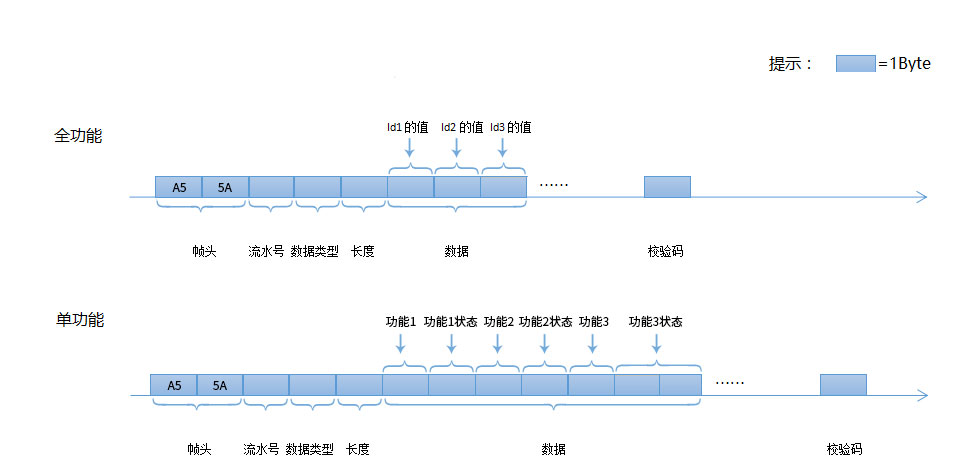
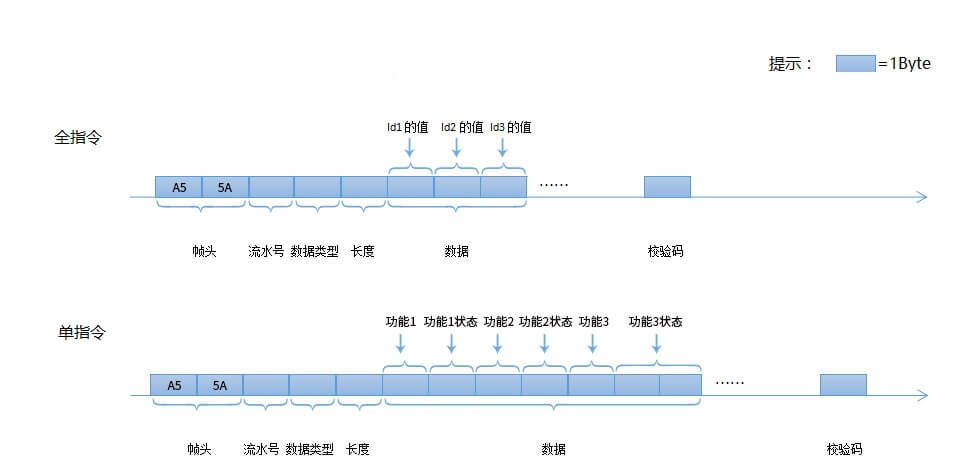
1、Stream_ID  统一改为功能标识符，参数该为功能 2、显示编辑信息的一些提示信息 3、全功能和全指令统一成全指令图片修改 4、添加产品设置一些必填的参数值

diff --git a/static/ng/product/edit/edit.html b/static/ng/product/edit/edit.html
@@ -36,16 +36,16 @@
 								<!-- PAGE CONTENT BEGINS -->
 								<form method="post" class="form-horizontal" role="form">
 									<div class="form-group">
-                                        <label class="col-sm-3 col-xs-3 control-label no-padding-right" for="Stream_ID" style="text-align:right"> <span class="must-choose">*</span>Stream_ID </label>
+                                        <label class="col-sm-3 col-xs-3 control-label no-padding-right" for="Stream_ID" style="text-align:right"> <span class="must-choose">*</span>功能标识符 </label>
 										<div class="col-sm-9 col-xs-9">
-											<input ng-disabled='{[{ disabled }]}' type="text" id="Stream_ID" ng-model="argueFormData.csrfmiddlewaretoken" placeholder="Stream_ID由字母、数字或下划线组成，不能重复" class="col-xs-10 col-sm-5" onblur="checkID()"/>
+											<input ng-disabled='{[{ disabled }]}' type="text" id="Stream_ID" ng-model="argueFormData.csrfmiddlewaretoken" placeholder="由大写字母、或下划线组成，不能重复" class="col-xs-10 col-sm-5" onblur="checkID()"/>
 											<br><br><div id="checkID" style="color:red;display:none;"></div>
 										</div>
 									</div>
 									<div class="form-group">
-										<label class="col-sm-3 col-xs-3 control-label no-padding-right" for="name" style="text-align:right"> <span class="must-choose">*</span>参数名称 </label>
+										<label class="col-sm-3 col-xs-3 control-label no-padding-right" for="name" style="text-align:right"> <span class="must-choose">*</span>功能名称 </label>
 										<div class="col-sm-9 col-xs-9">
-											<input ng-disabled='{[{ disabled }]}' type="text" id="name" ng-model="argueFormData.Stream_ID" placeholder="Stream_ID的中文名称，显示在产品详情界面" class="col-xs-10 col-sm-5" onblur="checkName()"/>
+											<input ng-disabled='{[{ disabled }]}' type="text" id="name" ng-model="argueFormData.Stream_ID" placeholder="标识符的中文名称，显示在产品详情界面" class="col-xs-10 col-sm-5" onblur="checkName()"/>
 											<br><br><div id="checkName" style="color:red;display:none"></div>
 										</div>
 									</div>
@@ -73,7 +73,7 @@
 									</div>
 
 									<div class="form-group">
-										<label class="col-sm-3 col-xs-3 control-label no-padding-right" for="paramType" style="text-align:right"><span class="must-choose">*</span>参数类型 <span class="help-button" data-rel="popover" data-trigger="hover" data-placement="bottom" data-content="请正确填写您的Stream_ID的类型!数值型(int/float)：可线性调节数值型的功能，如温度调节20~40°C；定时类型:可选择型调节时间范围，如工作时间；枚举型：自定义的有限集合值，如档位的高、中、低；字符串型：以字符串形式传输功能点。" title="">?</span> </label>
+										<label class="col-sm-3 col-xs-3 control-label no-padding-right" for="paramType" style="text-align:right"><span class="must-choose">*</span>功能点类型 <span class="help-button" data-rel="popover" data-trigger="hover" data-placement="bottom" data-content="请正确填写您的Stream_ID的类型!数值型(int/float)：可线性调节数值型的功能，如温度调节20~40°C；定时类型:可选择型调节时间范围，如工作时间；枚举型：自定义的有限集合值，如档位的高、中、低；字符串型：以字符串形式传输功能点。" title="">?</span> </label>
 										<div class="col-sm-9 col-xs-9" id="param-type">
 												<div class="radio">
 														<label>
@@ -264,8 +264,8 @@
                         else{flag = false;}
                     }
                 });
+                $('[data-rel=popover]').popover({container:'body'});
                 if(flag == false){
-                    $('[data-rel=popover]').popover({container:'body'});
                     var obj={id:id,Stream_ID:edit_data["Stream_ID"],name:edit_data["name"],isControl:edit_data["isControl"],state:edit_data["state"],min:edit_data["min"],max:edit_data["max"],paramType:edit_data["paramType"],corpName:edit_data["corpName"],corpMark:edit_data["corpMark"],mxs:edit_data["mxs"],mxsLength:edit_data["mxsLength"],time:edit_data["time"]};
                     loadData(obj);
                 }
@@ -410,7 +410,7 @@
 				$(ths.parentNode.parentNode).remove();
 			}
 			function checkID(){
-				var role=/^[A-Z0-9_]*$/;
+				var role=/^[A-Z_]*$/;
 				var data=$.trim($('#Stream_ID').val());
 
                 var temp =false;
@@ -421,7 +421,7 @@
                     }
                 }
                 if (data == '' || role.test(data) == false) {
-                    $('#checkID').html("参数ID由大写字母、数字或下划线组成，不能重复!!");
+                    $('#checkID').html("该参数以大写字母和下划线组成、不能重复");
                     $('#checkID').css("display", "block");
                 }
                 else if(temp){
@@ -434,7 +434,7 @@
 			}
 			function checkName(){
 				if($.trim($('#name').val())==''){
-					$('#checkName').html("参数名不能为空!!");
+					$('#checkName').html("功能名称不能为空!!");
 					$('#checkName').css("display","block");
 				}else{
 					$('#checkName').css("display","none");

diff --git a/static/ng/product/info/main.html b/static/ng/product/info/main.html
@@ -38,10 +38,11 @@
             <div class="boxInfo">
                 <h3 class="tit5">基本信息</h3>
                 <dl class="fmInfo">
-                    <dt>产品名称</dt>
+                    <dt><span style="color: #d43f3a;">*</span>产品名称</dt>
                     <dd>
-                        <input type="text" id="productNameText" ng-disabled="{[{ disabled }]}" ng-model="infoFormData.app_name" class="w400 form-control" maxlength="18">
+                        <input type="text" id="productNameText" ng-disabled="{[{ disabled }]}" onblur="checkProductName()" ng-model="infoFormData.app_name" class="w400 form-control" maxlength="18">
                         <span class="tips-error hiden" id="productNameTips"></span>
+                        <div id="checkProduct" style="color:red;display:none;top: -29px;left: 204px;position: relative;"></div>
                     </dd>
                 </dl>
 
@@ -153,6 +154,17 @@
                 brandListData = data['data']
             }
     });
+    function checkProductName() {
+        value = $("#productNameText").val();
+        if (!value){
+            $("#checkProduct").html("产品名称不能为空");
+            $("#checkProduct").css('display','block')
+        }
+        else {
+
+            $("#checkProduct").css('display','none')
+        }
+    }
     function clickQueryDiv (liObj) {
             var $liObj = $(liObj);
             var $textObj = $liObj.parent().parent().children(":first");

diff --git a/static/ng/product/edit/controller.js b/static/ng/product/edit/controller.js
@@ -17,19 +17,19 @@ angular.module('Product.edit', ['ngRoute'])
          */
         $scope.Save = function () {
         	if (alert_ID()=="exist"){
-        		alert("参数名称已经存在!!");
+        		alert("该功能标识已经存在!!");
 				return ;
 			}
             if($.trim($('#Stream_ID').val())==''){
-					alert("请填写参数ID信息!!");
+					alert("请填写功能标识符!!");
 					return ;
 				}
 				if($.trim($('#name').val())==''){
-					alert("请填写参数名称信息!!");
+					alert("请填写功能名称信息!!");
 					return;
 				}
 				if($.trim($('#mxsLength').val())==''){
-					alert("请填写参数长度!!");
+					alert("请填写功能参数长度!!");
 					return;
 				}
 				var min=0;
@@ -63,10 +63,18 @@ angular.module('Product.edit', ['ngRoute'])
 							}
 						}
 						else {
-							if (!(data in flag)){
+							var temp = 0;
+							for(var i=0;i<flag.length;i++){
+									if (data == flag[i]){
+									temp = 1;
+									break;
+								}
+							}
+							if(temp==0){
 								errorType = 2;
 								break
 							}
+
 						}
 						mxs.push({data:data,desc:desc});
 					}

diff --git a/static/ng/product/argue/list.html b/static/ng/product/argue/list.html
@@ -50,7 +50,7 @@
     </style>
     <div class="main-container">
         <div style="background: #fff">
-         <h1 class="headerH1">基本参数填写规则<span class="help-button" data-rel="popover" data-trigger="hover" data-placement="bottom">?</span></h1>
+         <h1 class="headerH1"><span class="help-button" data-rel="popover" data-trigger="hover" data-placement="bottom">?</span> 基本参数填写规则</h1>
             <h1 class="headerH1">tips</h1>
             <h1 class="headerH1">1.id表示该产品功能序号，主要关系二进制 数据中改值所在帧结构中位置<br></h1>
             <h1 class="headerH1">2.长度是指该功能占用的位数，单位(Bit)。1Byte=8Bit<br></h1>
